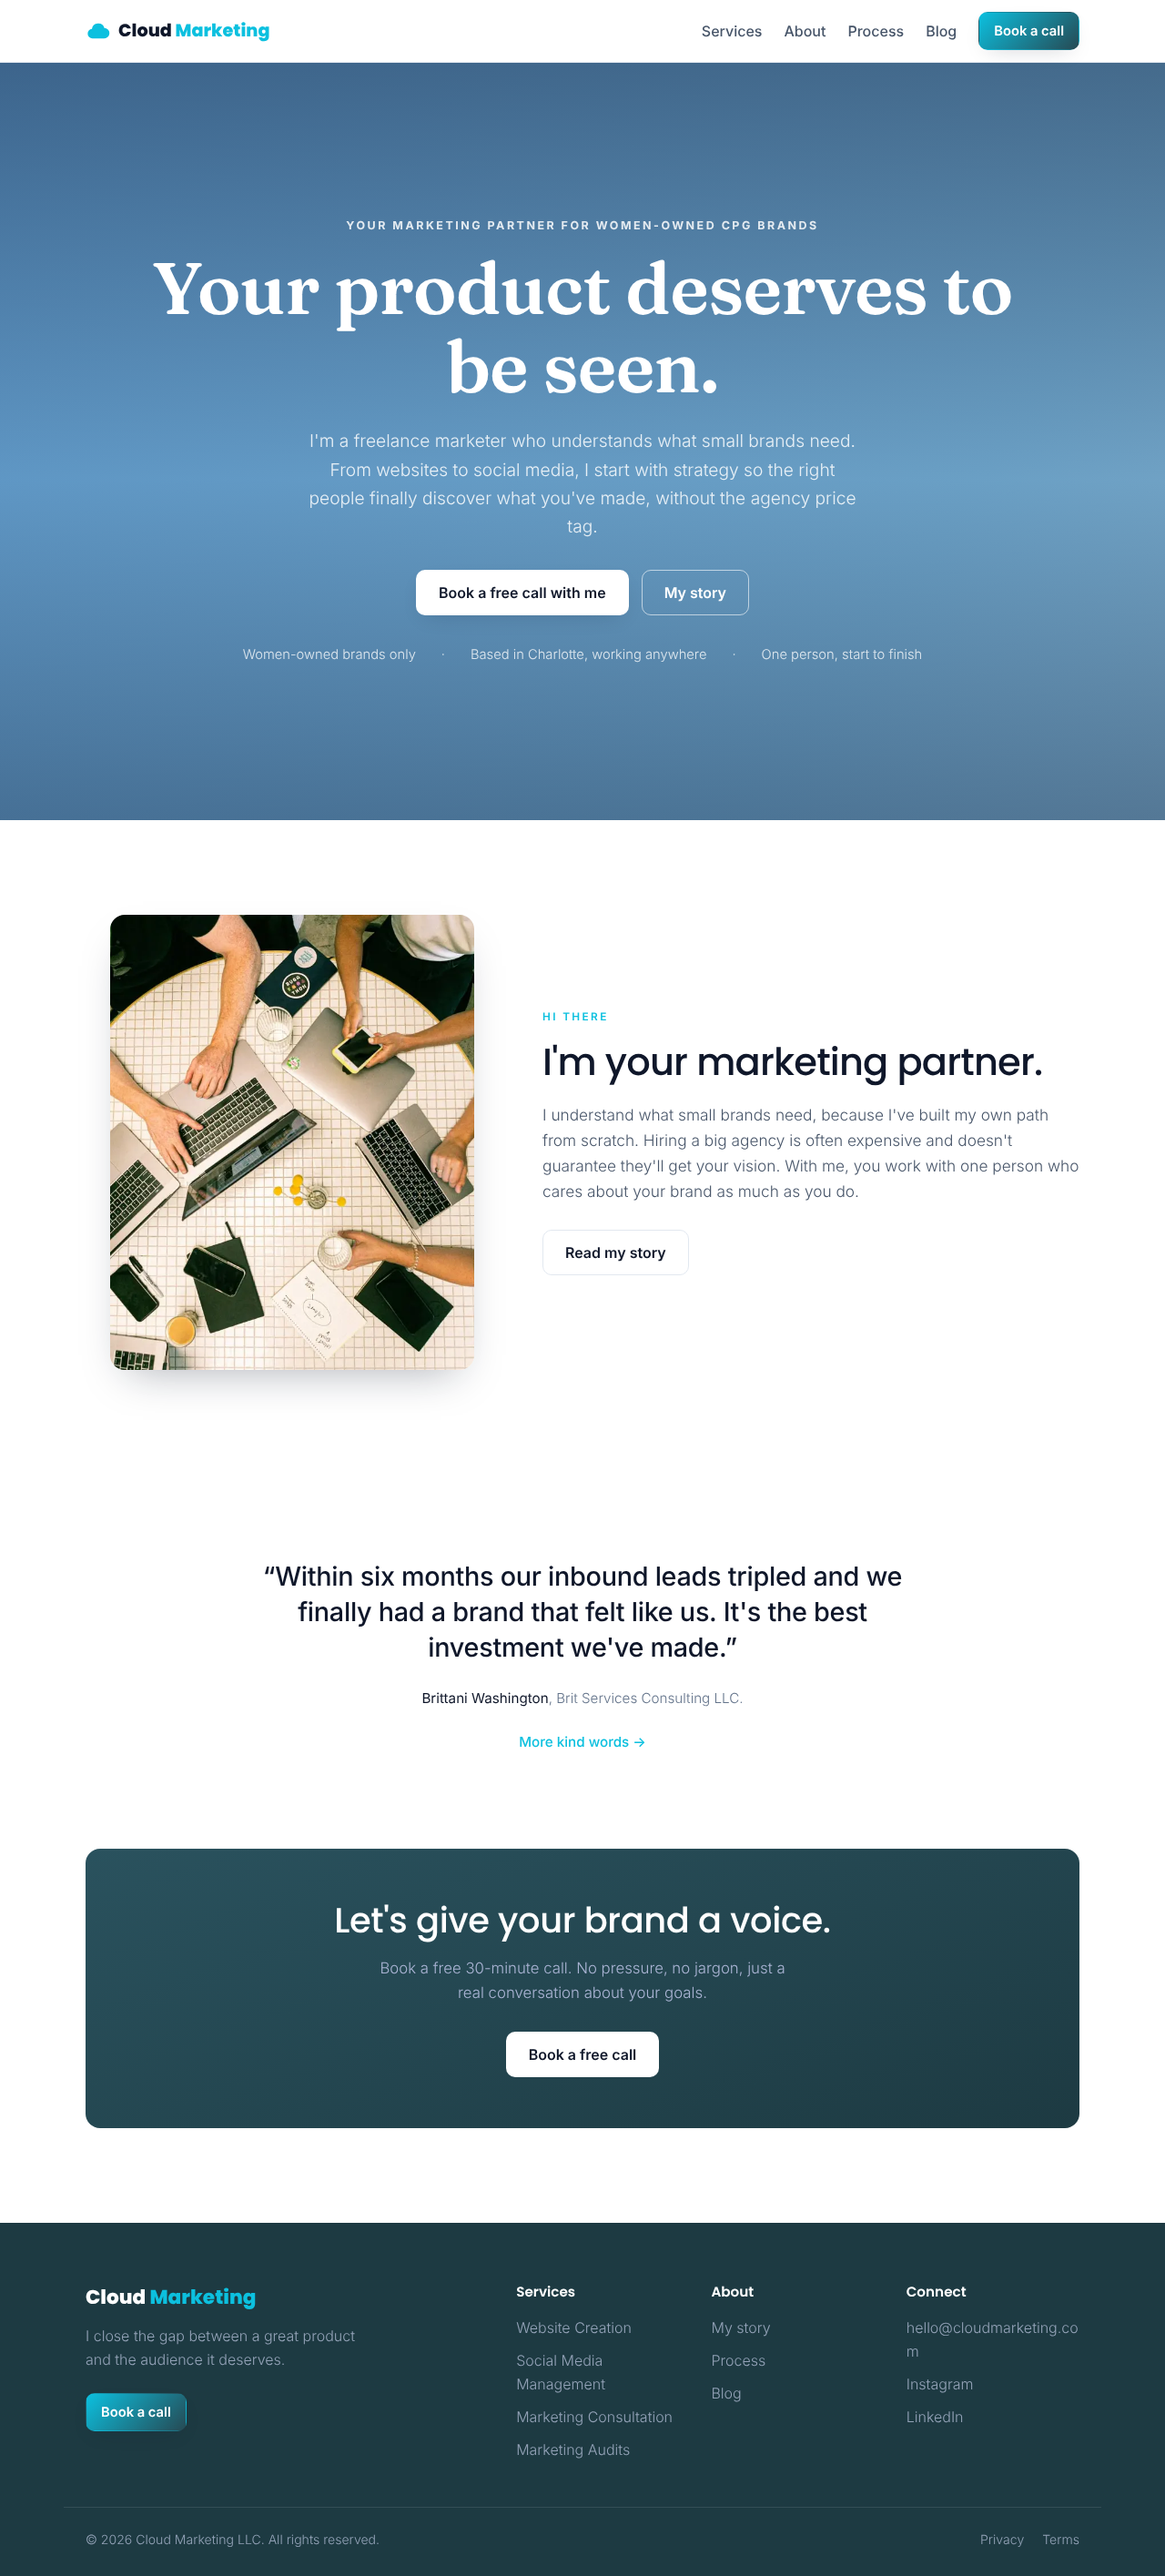
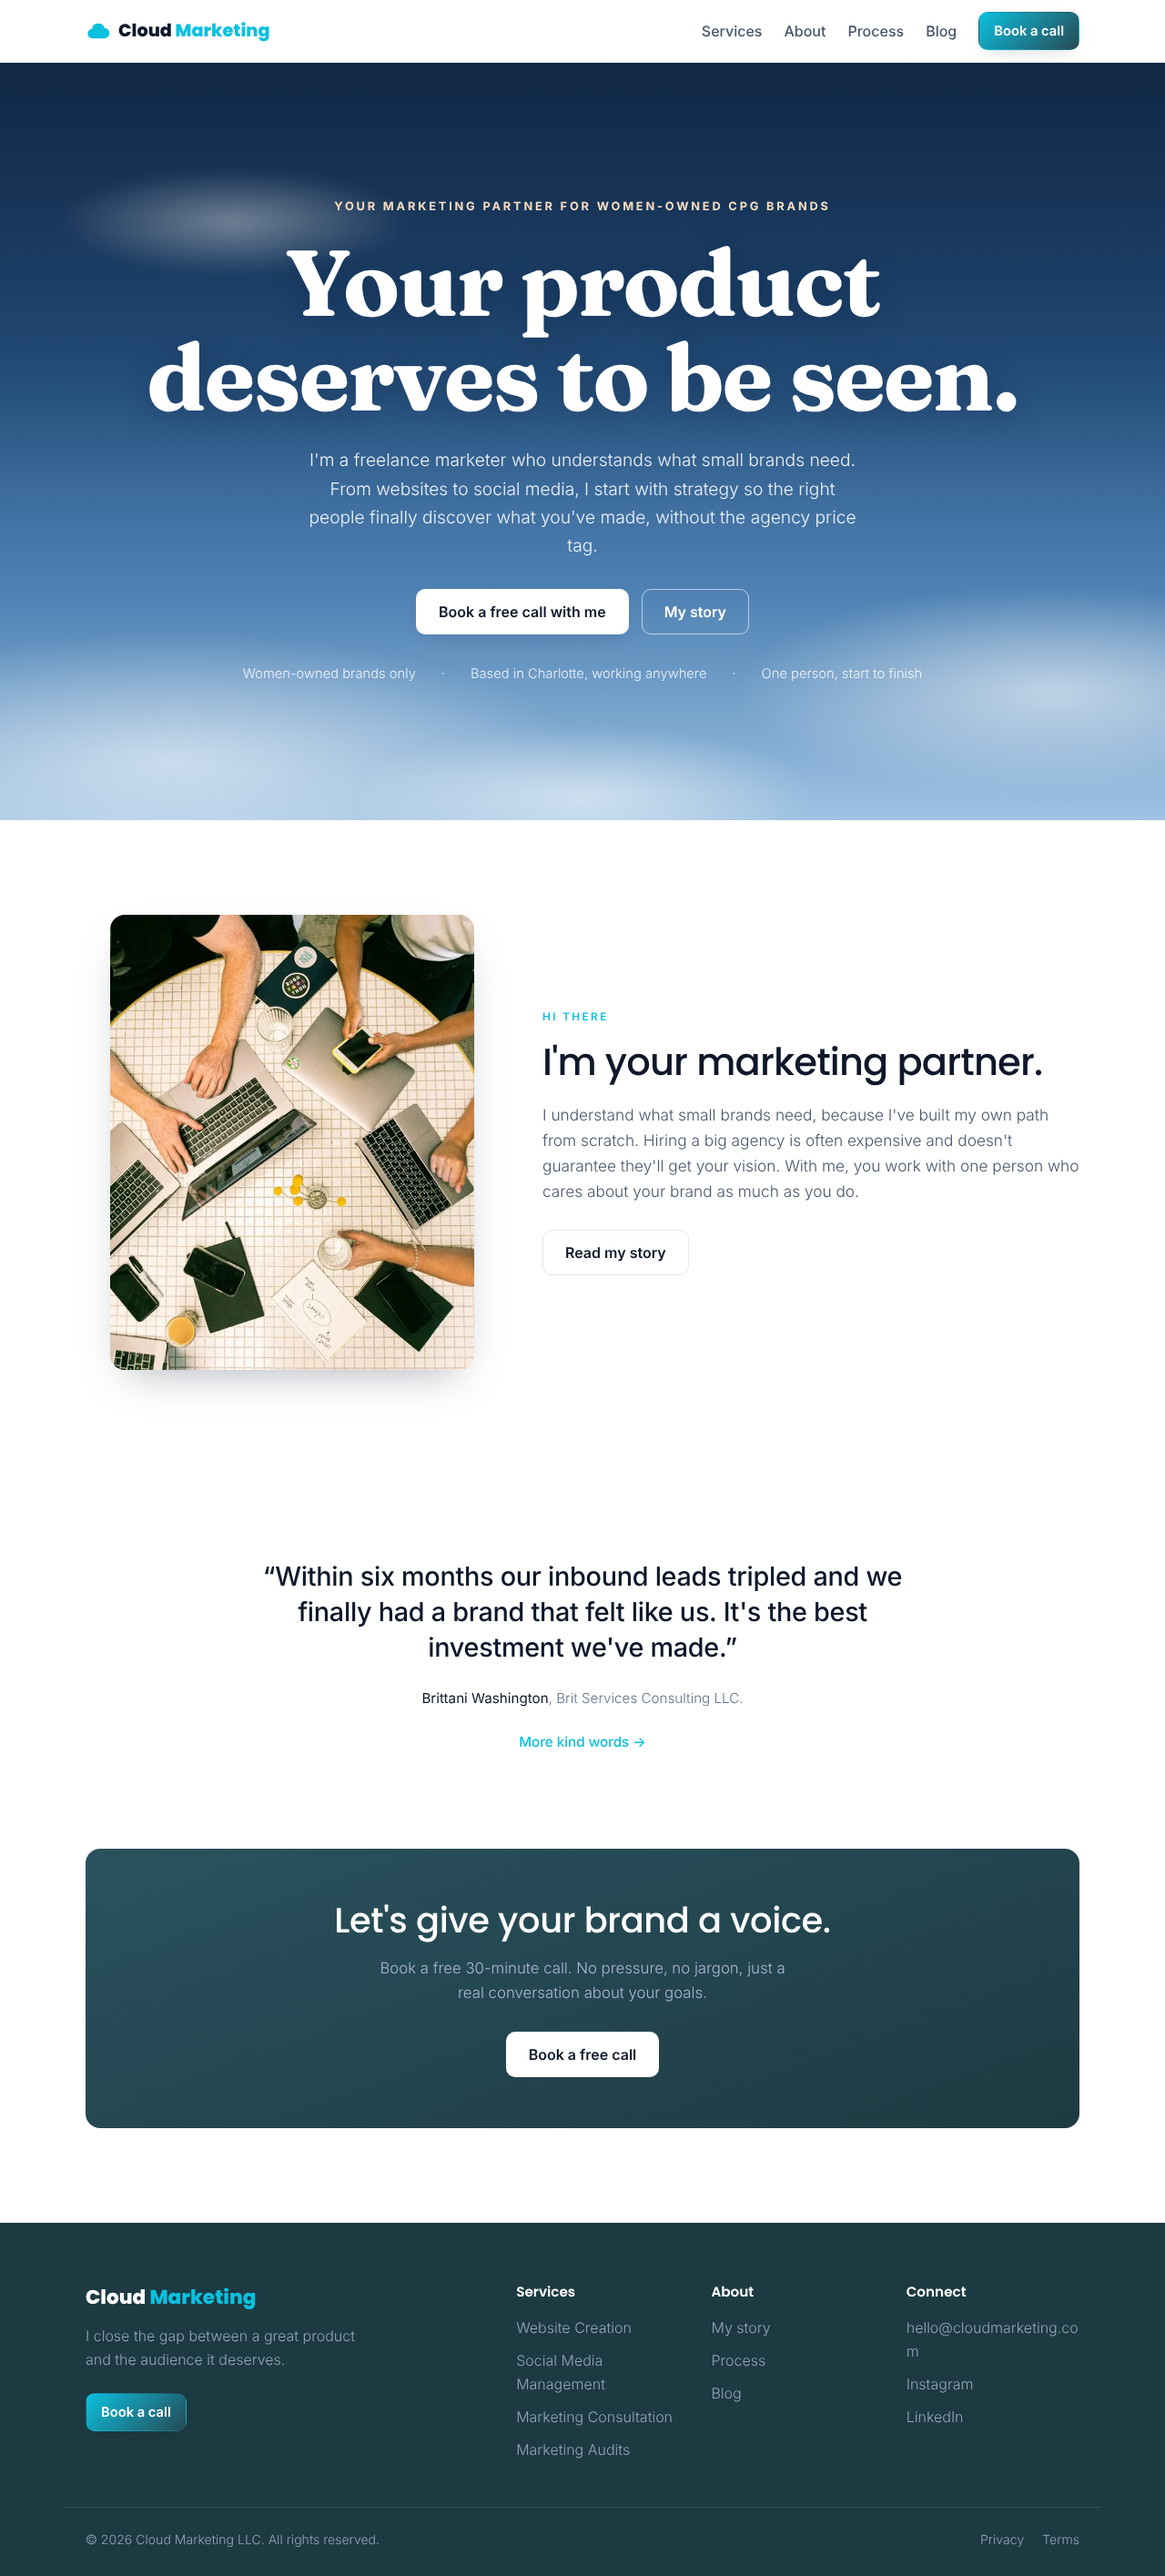
Bolder hero: deep sky gradient with soft clouds, larger headline
Claude-Session: https://claude.ai/code/session_01BS6Hv8jWvS9UUisMcfmDfK

Changed region(s): [[0.0, 0.0, 1.0, 0.342]]

diff --git a/components/Hero.tsx b/components/Hero.tsx
@@ -2,38 +2,37 @@ import TypedText from "./TypedText";
 
 export default function Hero() {
   return (
-    <section className="hero-aurora relative flex min-h-[calc(100svh-68px)] items-center overflow-hidden py-24 text-white">
-      {/* Background video — drop your clip in at public/hero.mp4 (muted, loops) */}
-      <video
-        className="absolute inset-0 z-0 h-full w-full object-cover"
-        autoPlay
-        muted
-        loop
-        playsInline
-        aria-hidden="true"
-      >
-        <source src="/hero.mp4" type="video/mp4" />
-        <source src="/hero.webm" type="video/webm" />
-      </video>
+    <section className="hero-sky relative flex min-h-[calc(100svh-68px)] items-center overflow-hidden py-24 text-white">
+      {/* Want a photo instead? Put it at public/hero.jpg and add
+          <img src="/hero.jpg" alt="" className="absolute inset-0 z-0 h-full w-full object-cover" />
+          here; the scrim below keeps the text readable. */}
 
-      {/* Contrast scrim so the headline stays readable over the video */}
+      {/* Soft drifting clouds */}
+      <div className="hero-clouds absolute inset-0 z-0" aria-hidden="true">
+        <span className="cloud cloud-1" />
+        <span className="cloud cloud-2" />
+        <span className="cloud cloud-3" />
+        <span className="cloud cloud-4" />
+      </div>
+
+      {/* Deepens the top so the headline stays crisp */}
       <div
-        className="absolute inset-0 z-[1] bg-[linear-gradient(180deg,rgba(8,20,45,0.55),rgba(8,20,45,0.28)_55%,rgba(8,20,45,0.5))]"
+        className="absolute inset-0 z-[1] bg-[linear-gradient(180deg,rgba(12,30,58,0.45),rgba(12,30,58,0)_60%)]"
         aria-hidden="true"
       />
 
       <div className="container-x relative z-[2] flex flex-col items-center text-center">
-        <p className="anim-up mb-4 text-[0.78rem] font-bold uppercase tracking-[0.2em] text-white/85">
+        <p className="anim-up mb-5 text-[0.8rem] font-bold uppercase tracking-[0.22em] text-[#f6dcc0]">
           Your marketing partner for women-owned CPG brands
         </p>
         <h1
-          className="anim-up font-display mx-auto mb-6 max-w-[18ch] text-[clamp(2.8rem,6.5vw,5rem)] font-semibold leading-[1.07] tracking-[-0.01em] text-white"
+          className="anim-up font-display mx-auto mb-6 max-w-[16ch] text-[clamp(3.2rem,8vw,6.4rem)] font-bold leading-[1.02] tracking-[-0.02em] text-white [text-shadow:0_4px_30px_rgba(12,30,58,0.35)]"
           style={{ animationDelay: "80ms" }}
         >
           <TypedText text="Your product deserves to be seen." speed={55} />
         </h1>
         <p
-          className="anim-up mx-auto max-w-[52ch] text-[1.2rem] leading-relaxed text-white/85"
+          className="anim-up mx-auto max-w-[52ch] text-[1.2rem] leading-relaxed text-white/90"
           style={{ animationDelay: "160ms" }}
         >
           I&apos;m a freelance marketer who understands what small brands need.
@@ -53,7 +52,7 @@ export default function Hero() {
           </a>
         </div>
         <ul
-          className="anim-up flex flex-wrap justify-center gap-x-7 gap-y-2 text-[0.92rem] text-white/80"
+          className="anim-up flex flex-wrap justify-center gap-x-7 gap-y-2 text-[0.92rem] text-white/85"
           style={{ animationDelay: "320ms" }}
         >
           <li>Women-owned brands only</li>

diff --git a/app/globals.css b/app/globals.css
@@ -115,6 +115,25 @@ html {
   background-size: 300% 300%;
   animation: auroraShift 18s ease infinite;
 }
+/* Home hero: a deep evening-blue sky that softens toward the horizon */
+.hero-sky {
+  background: linear-gradient(180deg, #16304f 0%, #24507e 38%, #4f82b4 70%, #9fc3e3 100%);
+}
+.hero-clouds .cloud {
+  position: absolute;
+  border-radius: 9999px;
+  background: radial-gradient(closest-side, rgba(255, 255, 255, 0.55), rgba(255, 255, 255, 0));
+  filter: blur(6px);
+  animation: cloudDrift 60s linear infinite alternate;
+}
+.hero-clouds .cloud-1 { width: 70vw; height: 22vw; left: -20vw; bottom: -6vw; }
+.hero-clouds .cloud-2 { width: 55vw; height: 18vw; right: -18vw; bottom: 2vw; animation-duration: 75s; }
+.hero-clouds .cloud-3 { width: 40vw; height: 12vw; left: 30vw; bottom: -4vw; opacity: 0.8; animation-duration: 90s; }
+.hero-clouds .cloud-4 { width: 30vw; height: 9vw; left: 5vw; top: 14%; opacity: 0.35; animation-duration: 110s; }
+@keyframes cloudDrift {
+  from { transform: translateX(-3vw); }
+  to { transform: translateX(3vw); }
+}
 /* Subtle dot-grid texture overlay */
 .hero-grid {
   background-image: radial-gradient(rgba(21, 95, 176, 0.12) 1px, transparent 1px);
@@ -193,6 +212,7 @@ html {
   .orb-float-2,
   .bar,
   .hero-aurora,
+  .hero-clouds .cloud,
   .typed-caret {
     animation: none !important;
     transition: none !important;
